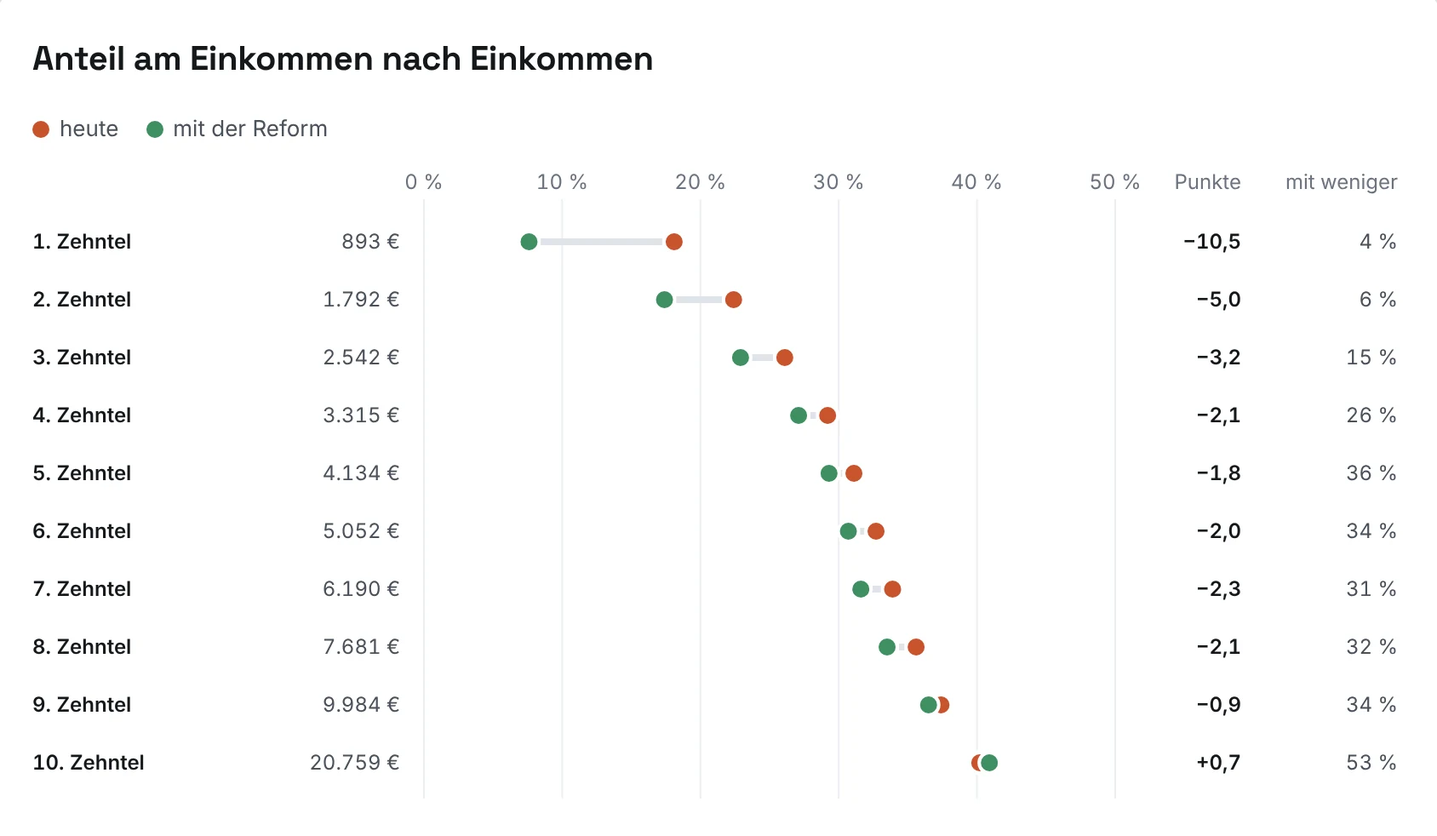
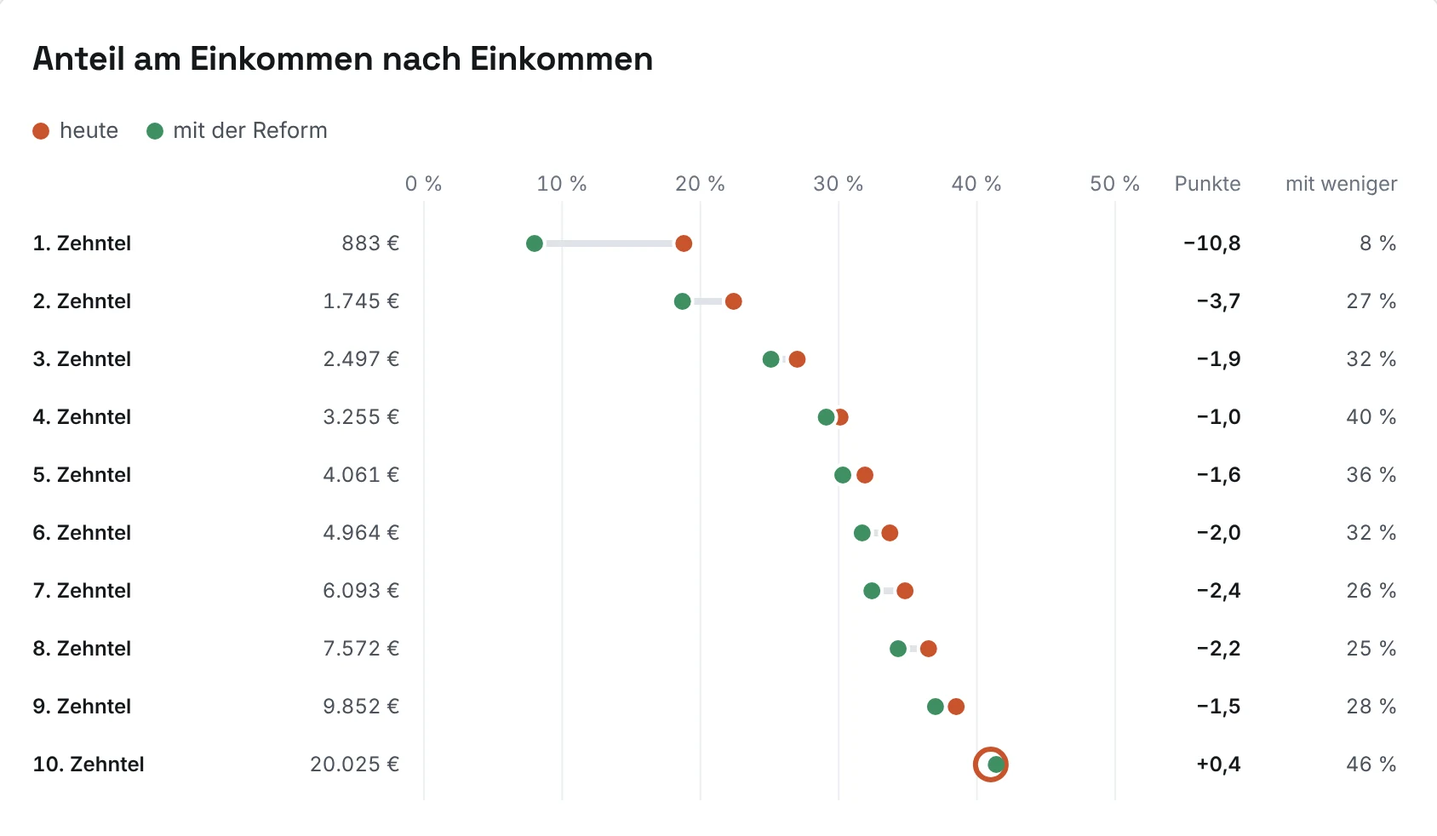
Steuerlast-Seite und Startseite: gezählt nach Erwachsenen über 18 (Stand Version 35)
Neue Grafiken aus der Mikrosimulation 0.3, Sätze aus steuerlast.json und uebergabe-v35.json.

Claude-Session: https://claude.ai/code/session_012Y93VcoN35D38RtTTtR6vF

diff --git a/steuerlast/index.html b/steuerlast/index.html
@@ -4,7 +4,7 @@
 <meta charset="utf-8">
 <meta name="viewport" content="width=device-width, initial-scale=1, viewport-fit=cover">
 <title>Wer die Reform bezahlt · Mut zur Zukunft</title>
-<meta name="description" content="Wer mit dem einheitlichen Steuersystem aus „Wir können uns die Zukunft leisten“ mehr Geld hat und wer weniger, nach Einkommen und Vermögen, gerechnet für 41 Mio. Haushalte.">
+<meta name="description" content="Wer mit dem einheitlichen Steuersystem aus „Wir können uns die Zukunft leisten“ mehr Geld hat und wer weniger, nach Einkommen und Vermögen, gerechnet für alle 68,2 Mio. Erwachsenen.">
 <link rel="icon" href="../favicon.svg" type="image/svg+xml">
 <link rel="stylesheet" href="../style.css">
 <style>
@@ -33,42 +33,42 @@
 <section class="sl-hero"><div class="wrap">
 <p class="eyebrow">Ein einheitliches Steuersystem</p>
 <h1>Wer die Reform bezahlt</h1>
-<p>Jedes Einkommen nach denselben Regeln: Wer hat mehr Geld als heute, wer weniger? Gerechnet für alle 41 Mio. Haushalte, nach Einkommen und nach Vermögen, im ersten Jahr der Reform und bei gleichem Einkauf wie heute.</p>
+<p>Jedes Einkommen nach denselben Regeln: Wer hat mehr Geld als heute, wer weniger? Gerechnet für alle 68,2 Mio. Erwachsenen in 41 Mio. Haushalten, nach Einkommen und Vermögen, im ersten Jahr der Reform und bei gleichem Einkauf wie heute.</p>
 </div></section>
 <div class="wrap sl">
 <div class="facts">
-<div><b>72,9 %</b><span>der Haushalte haben mehr Geld als heute, wenn sie so viel einkaufen wie heute.</span></div>
-<div><b>18,1 → 7,6 %</b><span>vom Einkommen zahlt das ärmste Zehntel an Steuern und Abgaben, heute und mit der Reform.</span></div>
-<div><b>37,8 → 39,9 %</b><span>aller Steuern und Abgaben der Haushalte trägt das reichste Zehntel, heute und mit der Reform.</span></div>
+<div><b>71 von 100</b><span>Erwachsenen haben mehr Geld als heute, wenn sie so viel einkaufen wie heute. Mit den Kindern gezählt 74 von 100 Menschen.</span></div>
+<div><b>18,8 → 8,0 %</b><span>vom Einkommen zahlt das ärmste Zehntel an Steuern und Abgaben, heute und mit der Reform.</span></div>
+<div><b>37,2 → 38,9 %</b><span>aller Steuern und Abgaben der Haushalte trägt das reichste Zehntel, heute und mit der Reform.</span></div>
 </div>
 <figure id="steuerlast-feld-einkommen-vermoegen">
 <a href="../bilder/steuerlast/steuerlast-feld-einkommen-vermoegen.webp" title="Wer hat mehr Geld, wer weniger: Grafik groß öffnen"><img src="../bilder/steuerlast/steuerlast-feld-einkommen-vermoegen.webp" width="1688" height="1362" loading="lazy" alt="Farbfeld nach Einkommen und Vermögen: Bis rund 310.000 € Vermögen haben fast alle Gruppen mehr Geld als heute, zwischen 310.000 und 490.000 € bleibt es fast gleich, darüber haben die Gruppen weniger."></a>
-<figcaption>Jedes Feld ist eine Gruppe von Haushalten. Nach rechts steigt das Einkommen, nach unten das Vermögen. Grün heißt: Die Haushalte haben im Mittel mehr Geld als heute, in Prozent ihres Einkommens. Rot heißt: weniger. Bis rund 310.000 € Vermögen ist fast alles grün, zwischen 310.000 und 490.000 € bleibt es fast gleich, weniger haben vor allem Haushalte mit mehr als 490.000 € Vermögen. Auch in grünen Feldern haben einzelne Haushalte weniger. Schraffierte Felder: zu wenige Haushalte für eine Aussage.</figcaption>
+<figcaption>Jedes Feld ist eine Gruppe von Erwachsenen, geordnet nach Einkommen und Vermögen ihres Haushalts. Nach rechts steigt das Einkommen, nach unten das Vermögen. Grün heißt: Die Erwachsenen der Gruppe haben im Mittel mehr Geld als heute, in Prozent ihres Einkommens. Rot heißt: weniger. Bis rund 310.000 € Vermögen ist fast alles grün, zwischen 310.000 und 490.000 € bleibt es fast gleich, weniger haben vor allem Erwachsene in Haushalten mit mehr als 490.000 € Vermögen. Auch in grünen Feldern haben einzelne weniger. Schraffierte Felder: zu wenige Fälle für eine Aussage.</figcaption>
 </figure>
 <figure id="steuerlast-nach-einkommen">
-<a href="../bilder/steuerlast/steuerlast-nach-einkommen.webp" title="Wie viel vom Einkommen an Steuern und Abgaben geht: Grafik groß öffnen"><img src="../bilder/steuerlast/steuerlast-nach-einkommen.webp" width="1688" height="982" loading="lazy" alt="Punktgrafik nach Einkommenszehnteln: Das unterste Zehntel zahlt 7,6 statt 18,1 % seines Einkommens, das oberste 40,9 statt 40,2 %."></a>
-<figcaption>Zehn gleich große Gruppen von je 4,1 Mio. Haushalten, geordnet nach dem Einkommen vor Steuern (Löhne, Gewinne, Renten, Kapitalerträge, Grundsicherung). Die Zahl hinter der Gruppe ist ihr mittleres Einkommen im Monat, die Punkte zeigen den Durchschnitt der Gruppe. Das unterste Zehntel zahlt 7,6 statt 18,1 % seines Einkommens, das oberste 40,9 statt 40,2 %. „Mit weniger“ zählt die Haushalte der Gruppe, die trotzdem weniger haben als heute (bei gleichem Einkauf, ohne Erbe).</figcaption>
+<a href="../bilder/steuerlast/steuerlast-nach-einkommen.webp" title="Wie viel vom Einkommen an Steuern und Abgaben geht: Grafik groß öffnen"><img src="../bilder/steuerlast/steuerlast-nach-einkommen.webp" width="1688" height="982" loading="lazy" alt="Punktgrafik nach Einkommenszehnteln: Das unterste Zehntel zahlt 8,0 statt 18,8 % seines Einkommens, das oberste 41,4 statt 41,0 %."></a>
+<figcaption>Zehn gleich große Gruppen von je 4,1 Mio. Haushalten, geordnet nach dem Einkommen vor Steuern (Löhne, Gewinne, Renten, Kapitalerträge, Grundsicherung). Die Zahl hinter der Gruppe ist ihr mittleres Einkommen im Monat, die Punkte zeigen den Durchschnitt der Gruppe. Das unterste Zehntel zahlt 8,0 statt 18,8 % seines Einkommens, das oberste 41,4 statt 41,0 %. „Mit weniger“ zählt die Erwachsenen der Gruppe, die trotzdem weniger haben als heute (bei gleichem Einkauf, ohne Erbe).</figcaption>
 </figure>
 <figure id="steuerlast-anteile">
-<a href="../bilder/steuerlast/steuerlast-anteile.webp" title="Wie viel vom Ganzen jede Gruppe trägt: Grafik groß öffnen"><img src="../bilder/steuerlast/steuerlast-anteile.webp" width="1688" height="722" loading="lazy" alt="Balken: Das oberste Zehntel trägt 39,9 statt 37,8 % aller Steuern und Abgaben der Haushalte, die untere Hälfte 14,4 statt 15,7 %."></a>
-<figcaption>Alle Haushalte zahlen mit der Reform 1.053 Mrd. € im Jahr, heute 1.091 Mrd. €. Das oberste Zehntel trägt mehr vom Ganzen als heute, 39,9 statt 37,8 %. Das oberste Prozent trägt im ersten Jahr 11,8 statt 12,3 %. Es spart viel und zahlt vor allem über das Erbe; wenn das Erbe voll wirkt, trägt es 12,3 %.</figcaption>
+<a href="../bilder/steuerlast/steuerlast-anteile.webp" title="Wie viel vom Ganzen jede Gruppe trägt: Grafik groß öffnen"><img src="../bilder/steuerlast/steuerlast-anteile.webp" width="1688" height="722" loading="lazy" alt="Balken: Das oberste Zehntel trägt 38,9 statt 37,2 % aller Steuern und Abgaben der Haushalte, die untere Hälfte 15,0 statt 16,0 %."></a>
+<figcaption>Alle Haushalte zahlen mit der Reform 1.054 Mrd. € im Jahr, heute 1.092 Mrd. €. Das oberste Zehntel trägt mehr vom Ganzen als heute, 38,9 statt 37,2 %. Das oberste Prozent trägt im ersten Jahr 11,3 statt 11,7 %. Es spart viel und zahlt vor allem über das Erbe; wenn das Erbe voll wirkt, trägt es 11,7 %.</figcaption>
 </figure>
 <figure id="steuerlast-nach-vermoegen">
-<a href="../bilder/steuerlast/steuerlast-nach-vermoegen.webp" title="Wie viel vom Einkommen nach Vermögen geht: Grafik groß öffnen"><img src="../bilder/steuerlast/steuerlast-nach-vermoegen.webp" width="1688" height="702" loading="lazy" alt="Punktgrafik nach Vermögen: Haushalte unter 100.000 € Vermögen zahlen 5,3 Punkte weniger von ihrem Einkommen, Haushalte zwischen 400.000 € und 1 Mio. € mehr."></a>
+<a href="../bilder/steuerlast/steuerlast-nach-vermoegen.webp" title="Wie viel vom Einkommen nach Vermögen geht: Grafik groß öffnen"><img src="../bilder/steuerlast/steuerlast-nach-vermoegen.webp" width="1688" height="812" loading="lazy" alt="Punktgrafik nach Vermögen: Haushalte unter 100.000 € Vermögen zahlen 6,0 Punkte weniger von ihrem Einkommen, Haushalte zwischen 400.000 € und 1 Mio. € mehr."></a>
 <figcaption>Gruppen nach Nettovermögen. Mehr zahlen vor allem Haushalte mit eigenem Haus, das noch nicht abbezahlt ist: Auf den Mietwert des unbezahlten Teils fällt Ausgabensteuer an, ebenso auf ausgegebene Zinsen und Mieten. Der beim Start bezahlte Teil des Hauses und Ausgaben aus versteuertem Ersparten bleiben frei.</figcaption>
 </figure>
 <figure id="wer-bezahlt-einkommen-vermoegen">
-<a href="../bilder/steuerlast/wer-bezahlt-einkommen-vermoegen.webp" title="Welche Einkommen und Vermögen die Reform bezahlen: Grafik groß öffnen"><img src="../bilder/steuerlast/wer-bezahlt-einkommen-vermoegen.webp" width="1688" height="1122" loading="lazy" alt="Balken nach Einkommens- und Vermögensart: Auf Löhne fallen 48,5 Mrd. € weniger, auf Gewinne eigener Firmen 14,1 Mrd. € mehr, auf vererbte Firmen 5,7 Mrd. € mehr."></a>
-<figcaption>Wie viel mehr oder weniger Steuern und Abgaben im Jahr auf jede Art von Einkommen und Vermögen fallen als heute, in Milliarden Euro. Auf Löhne fallen 48,5 Mrd. € weniger, auf Gewinne eigener Firmen 14,1 Mrd. € mehr. Beim Erbe zahlen Firmen 5,7 Mrd. € mehr, 13,0 Mrd. €, wenn der Staatsanteil am Erbe voll wirkt: Heute sind vererbte Firmen zu 85 % verschont, mit der Reform zählt alles voll. Zusammen tragen die Haushalte 38 Mrd. € weniger als heute, 23 Mrd. € davon ist der Ausgleich für heutige Rentner (bis 300 € im Monat) und 10 € im Monat je Erwachsenem. Steuern von Firmen, die nicht den Haushalten gehören, sind nicht enthalten.</figcaption>
+<a href="../bilder/steuerlast/wer-bezahlt-einkommen-vermoegen.webp" title="Welche Einkommen und Vermögen die Reform bezahlen: Grafik groß öffnen"><img src="../bilder/steuerlast/wer-bezahlt-einkommen-vermoegen.webp" width="1688" height="1122" loading="lazy" alt="Balken nach Einkommens- und Vermögensart: Auf Löhne fallen 56,6 Mrd. € weniger, auf Gewinne eigener Firmen 15,1 Mrd. € mehr, auf vererbte Firmen 5,6 Mrd. € mehr."></a>
+<figcaption>Wie viel mehr oder weniger Steuern und Abgaben im Jahr auf jede Art von Einkommen und Vermögen fallen als heute, in Milliarden Euro. Auf Löhne fallen 56,6 Mrd. € weniger, auf Gewinne eigener Firmen 15,1 Mrd. € mehr. Beim Erbe zahlen Firmen 5,6 Mrd. € mehr, 12,6 Mrd. €, wenn der Staatsanteil am Erbe voll wirkt: Heute sind vererbte Firmen zu 85 % verschont, mit der Reform zählt alles voll. Zusammen tragen die Haushalte 38 Mrd. € weniger als heute, 10 Mrd. € davon sind die Zuschläge für heutige Rentner (ihre Rente kauft 4 % mehr) und für Beamte und Pensionäre (mindestens 2 % mehr). Steuern von Firmen, die nicht den Haushalten gehören, sind nicht enthalten.</figcaption>
 </figure>
 <figure id="vermoegen-sparen">
-<a href="../bilder/steuerlast/vermoegen-sparen.webp" title="Wie Vermögen wächst: Grafik groß öffnen"><img src="../bilder/steuerlast/vermoegen-sparen.webp" width="1688" height="1057" loading="lazy" alt="Punktgrafik zum Sparen nach Vermögen: Haushalte unter 100.000 € Vermögen sparen mit der Reform 191 € im Monat, heute −16 €."></a>
-<figcaption>Um wie viel Prozent das Vermögen der Haushalte im Jahr durch Sparen wächst. Haushalte mit weniger als 100.000 € Vermögen sparen heute im Mittel −16 € im Monat, mit der Reform 191 €, also 4,9 % statt −0,4 % ihres Einkommens. Weil sie im Mittel nur 21.926 € besitzen, wirkt das als großer Sprung beim Wachstum des Vermögens. Gespart wird, was vom Einkommen nach Steuern und Abgaben bleibt, wenn der Haushalt so viel einkauft wie heute; was er mehr hat, legt er in dieser Rechnung ganz zurück. Nicht enthalten: Wertsteigerung von Häusern und Aktien, Erbschaften und Schenkungen.</figcaption>
+<a href="../bilder/steuerlast/vermoegen-sparen.webp" title="Wie Vermögen wächst: Grafik groß öffnen"><img src="../bilder/steuerlast/vermoegen-sparen.webp" width="1688" height="1162" loading="lazy" alt="Punktgrafik zum Sparen nach Vermögen: Haushalte unter 100.000 € Vermögen sparen mit der Reform 210 € im Monat, heute −14 €."></a>
+<figcaption>Um wie viel Prozent das Vermögen der Haushalte im Jahr durch Sparen wächst. Haushalte mit weniger als 100.000 € Vermögen sparen heute im Mittel −14 € im Monat, mit der Reform 210 €, also 5,5 % statt −0,4 % ihres Einkommens. Weil sie im Mittel nur 21.924 € besitzen, wirkt das als großer Sprung beim Wachstum des Vermögens. Gespart wird, was vom Einkommen nach Steuern und Abgaben bleibt, wenn der Haushalt so viel einkauft wie heute; was er mehr hat, legt er in dieser Rechnung ganz zurück. Nicht enthalten: Wertsteigerung von Häusern und Aktien, Erbschaften und Schenkungen.</figcaption>
 </figure>
 <div class="methode">
 <h2>Wie gerechnet wurde</h2>
-<p>Rund 49.000 künstliche Haushalte stehen für alle 41 Mio. Haushalte in Deutschland. Sie sind auf amtliche Zahlen geeicht: Löhne und Konsum aus der Volkswirtschaftlichen Gesamtrechnung 2025, Lohn- und Einkommensteuer aus den Steuereinnahmen 2025, Vermögen aus der Vermögensbefragung der Bundesbank 2023 mit einer Zuschätzung der Reichsten, Sparen aus der Einkommens- und Verbrauchsstichprobe.</p>
-<p>Heute: Lohn- und Einkommensteuer mit Soli, Sozialbeiträge, Abgeltungsteuer, Körperschaftsteuer auf eigene Firmen, Mehrwertsteuer, Erbschaft- und Schenkungsteuer. Mit der Reform: Ausgabensteuer über dem Freibetrag, höhere Mehrwertsteuer auf denselben Einkauf, die verbleibenden Beiträge und der Staatsanteil am Erbe, abzüglich der Auszahlungen an die Haushalte. Das Erbe zählt als erwartete Steuer im Jahr. Wie jede Schätzung hängt das Ergebnis an Annahmen: Im gezeigten Fall haben 11,1 Mio. Haushalte weniger als heute, mit anderen vertretbaren Eichungen sind es 9,7 bis 15,1 Mio. Jeden einzelnen Haushalt rechnet der <a href="../steuerrechner/">Steuerrechner</a> nach, die ganze Rechnung steht im <a href="../buch/">Buch</a>.</p>
+<p>Rund 46.000 künstliche Haushalte stehen für alle 41 Mio. Haushalte in Deutschland, mit 68,2 Mio. Erwachsenen und 82,3 Mio. Menschen. Sie sind auf amtliche Zahlen geeicht: Löhne und Konsum aus der Volkswirtschaftlichen Gesamtrechnung 2025, Lohn- und Einkommensteuer aus den Steuereinnahmen 2025, Vermögen aus der Vermögensbefragung der Bundesbank 2023 mit einer Zuschätzung der Reichsten, Sparen aus der Einkommens- und Verbrauchsstichprobe.</p>
+<p>Heute: Lohn- und Einkommensteuer mit Soli, Sozialbeiträge, Abgeltungsteuer, Körperschaftsteuer auf eigene Firmen, Mehrwertsteuer, Erbschaft- und Schenkungsteuer. Mit der Reform: Ausgabensteuer über dem Freibetrag, höhere Mehrwertsteuer auf denselben Einkauf, die verbleibenden Beiträge und der Staatsanteil am Erbe, abzüglich der Auszahlungen an die Haushalte. Das Erbe zählt als erwartete Steuer im Jahr. Wie jede Schätzung hängt das Ergebnis an Annahmen: Gezählt werden Erwachsene über 18: Jeder zählt mit dem Plus seines Haushalts geteilt durch die Erwachsenen darin, erwachsene Kinder bei den Eltern zählen für sich, Kinder unter 18 mit ihrem Haushalt. Im gezeigten Fall haben 19,4 Mio. Erwachsene weniger als heute, im Mittel 334 € im Monat; mit anderen vertretbaren Eichungen sind es 17,5 bis 27,4 Mio. Die Grafiken ordnen nach Einkommen und Vermögen des Haushalts und zählen die erwachsenen Kinder bei den Eltern nicht mit. Jeden einzelnen Haushalt rechnet der <a href="../steuerrechner/">Steuerrechner</a> nach, die ganze Rechnung steht im <a href="../buch/">Buch</a>.</p>
 </div>
 </div>
 </main>

diff --git a/index.html b/index.html
@@ -38,10 +38,10 @@
 <p class="quote">„Jede Einkommensart wird nach den gleichen Regeln und mit den gleichen Freibeträgen behandelt. Denn die Würde des Menschen ist gleich, ob man arm oder reich ist.“</p>
 <div class="grid3">
 <div class="card"><span class="big">frei</span><p>Das Existenzminimum bleibt steuerfrei, für jeden Erwachsenen und jedes Kind. Vom Lohn gehen keine Beiträge mehr ab, ohne Grenze, und der Arbeitgeber zahlt seine Anteile als Lohn aus. Lebensmittel, Trinkwasser, Bus und Bahn ohne Mehrwertsteuer.</p></div>
-<div class="card"><span class="big">7 von 10</span><p>Haushalten haben zum Start mehr Geld als heute, wenn sie so viel einkaufen wie heute, genau 73 von 100. Eine Familie mit zwei Kindern, 5.000 € brutto und eigenem Haus hat 1.039 € im Monat mehr.</p></div>
+<div class="card"><span class="big">7 von 10</span><p>Erwachsenen haben zum Start mehr Geld als heute, wenn sie so viel einkaufen wie heute, genau 71 von 100. Mit den Kindern gezählt sind es 74 von 100 Menschen. Eine Familie mit zwei Kindern, 5.000 € brutto und eigenem Haus hat 1.039 € im Monat mehr.</p></div>
 <div class="card"><span class="big">trägt sich</span><p>Wer im bezahlten eigenen Haus wohnt, schon Rente bezieht oder aus versteuertem Ersparten lebt, zahlt nicht doppelt. Im ersten Jahr fehlen dem Staat 8,5 Mrd. €, im zweiten noch 5,3 Mrd. €. Das passt in den Spielraum der Schuldenbremse. Ab 2030 bleibt jedes Jahr ein Überschuss, der Kredit von höchstens 14 Mrd. € ist 2032 getilgt. Mit dem Zukunftsplan ist der Staat 2064 schuldenfrei, ohne höhere Mehrwertsteuer, im zuversichtlichen Fall schon 2046. Jede Zahl ist im Buch erklärt und hier im Rechner nachprüfbar.</p></div>
 </div>
-<figure class="steuerlast"><a href="steuerlast/"><img src="bilder/steuerlast/steuerlast-feld-einkommen-vermoegen.webp" width="1688" height="1362" loading="lazy" alt="Farbfeld nach Einkommen und Vermögen: Bis rund 310.000 € Vermögen haben fast alle Gruppen mehr Geld als heute, zwischen 310.000 und 490.000 € bleibt es fast gleich, darüber haben die Gruppen weniger."></a><figcaption>Wer mehr Geld hat als heute und wer weniger, für alle 41 Mio. Haushalte nach Einkommen (nach rechts) und Vermögen (nach unten). Bis rund 310.000 € Vermögen ist fast alles grün, weniger haben vor allem Haushalte mit mehr als 490.000 € Vermögen. <a href="steuerlast/">Alle Grafiken: Wer die Reform bezahlt</a></figcaption></figure>
+<figure class="steuerlast"><a href="steuerlast/"><img src="bilder/steuerlast/steuerlast-feld-einkommen-vermoegen.webp" width="1688" height="1362" loading="lazy" alt="Farbfeld nach Einkommen und Vermögen: Bis rund 310.000 € Vermögen haben fast alle Gruppen mehr Geld als heute, zwischen 310.000 und 490.000 € bleibt es fast gleich, darüber haben die Gruppen weniger."></a><figcaption>Wer mehr Geld hat als heute und wer weniger, für alle Erwachsenen nach Einkommen (nach rechts) und Vermögen ihres Haushalts (nach unten). Bis rund 310.000 € Vermögen ist fast alles grün, weniger haben vor allem Erwachsene in Haushalten mit mehr als 490.000 € Vermögen. <a href="steuerlast/">Alle Grafiken: Wer die Reform bezahlt</a></figcaption></figure>
 <div class="cta"><div><h3>Was bedeutet das für deinen Haushalt?</h3><p style="margin:0;color:var(--muted)">Der Steuerrechner vergleicht heute und Vorschlag, zeigt die Staatsfinanzen bis 2070 und die CO₂-Abgabe. Er läuft im Browser und speichert nichts.</p></div><a class="btn" href="steuerrechner/">Jetzt nachrechnen</a></div>
 <div class="cta"><div><h3>E-Auto oder Verbrenner?</h3><p style="margin:0;color:var(--muted)">Was ein Elektroauto über sein ganzes Leben im Vergleich zum Verbrenner kostet, privat oder als Dienstwagen. Mit den Regeln für Kfz-Steuer und Dienstwagen, Stand 2026.</p></div><a class="btn ghost" href="eauto-rechner/">E-Auto nachrechnen</a></div>
 <div class="cta"><div><h3>Wärmepumpe, Gas oder Öl?</h3><p style="margin:0;color:var(--muted)">Was eine neue Heizung über 20 Jahre kostet: mit Förderung, CO₂-Preis und der neuen Pflicht zur Bio-Beimischung, Stand 2026. Dazu Dämmen und neue Fenster: niedrigere Vorlauftemperatur, bessere Wärmepumpe, weniger CO₂, auch mit dynamischem Tarif.</p></div><a class="btn ghost" href="heizungsrechner/">Heizung nachrechnen</a></div>

diff --git a/werkzeug/steuerlast-seite.py b/werkzeug/steuerlast-seite.py
@@ -2,9 +2,9 @@
 import re
 R = '/home/user/mut-zur-zukunft/'
 import json
-M = '/mnt/project-files/rechenmodell-mikrosim/'
+M = '/mnt/project-files/rechenmodell-mikrosim/v0.3/'
 J = json.load(open(M + 'steuerlast.json'))
-UB = json.load(open(M + 'uebergabe-buch.json'))
+UB = json.load(open(M + 'uebergabe-v35.json'))
 def k(x, n=1):
     t = f"{abs(x):,.{n}f}".replace(",", "X").replace(".", ",").replace("X", ".")
     return ("−" if x < 0 else "") + t
@@ -13,10 +13,12 @@ Z = J['zehntel']; ein = {a['art'] if 'art' in a else a['name']: a for a in J['ar
 def diff(name, lang=False, liste='einkommen'):
     a = next(a for a in J['arten'][liste] if a['name'] == name)
     return a['reform_lang_mrd' if lang else 'reform_mrd'] - a['heute_mrd']
-sp = re.search(r'Version 32 ([0-9,]+) bis ([0-9,]+) Mio\. \(Standard ([0-9,]+)\)', UB['spanne'])
-assert sp.group(3) == f"{J['weniger_mio']:.1f}".replace('.', ','), ('Spanne passt nicht zu steuerlast.json', sp.group(3), J['weniger_mio'])
+E, MS = J['erwachsene'], J['menschen']
+sp = next(x for x in UB['spanne_erwachsene'] if x['fall'].startswith('Rechenkern V35: '))
+assert abs(sp['standard_weniger_mio'] - E['mit_weniger_mio']) < 0.05, ('Spanne passt nicht zu steuerlast.json', sp, E)
 N = dict(
- mehr=k(J['mehr_prozent']), weniger=k(J['weniger_mio']), sp1=sp.group(1), sp2=sp.group(2),
+ emehr=str(E['von_100']['mehr']), eweniger=str(E['weniger_zusammen']), mmehr=str(MS['von_100']['mehr']), erw=k(E['erwachsene_mio'], 1), mensch=k(MS['menschen_mio'], 1),
+ weniger=k(E['mit_weniger_mio']), wmittel=k(E['weniger_im_mittel_monat'], 0), sp1=k(sp['von_weniger_mio']), sp2=k(sp['bis_weniger_mio']),
  z1h=k(Z[0]['quote_heute']), z1r=k(Z[0]['quote_reform']), z10h=k(Z[9]['quote_heute']), z10r=k(Z[9]['quote_reform']),
  uh=k(sum(z['anteil_heute'] for z in Z[:5])), ur=k(sum(z['anteil_reform'] for z in Z[:5])),
  oh=k(Z[9]['anteil_heute']), orr=k(Z[9]['anteil_reform']),
@@ -40,10 +42,10 @@ footer = re.search(r'<footer>.*?</footer>', u, re.S).group(0).replace('href="', 
 G = [
  ("steuerlast-feld-einkommen-vermoegen", 1688, 1362, "Wer hat mehr Geld, wer weniger",
   "Farbfeld nach Einkommen und Vermögen: Bis rund 310.000 € Vermögen haben fast alle Gruppen mehr Geld als heute, zwischen 310.000 und 490.000 € bleibt es fast gleich, darüber haben die Gruppen weniger.",
-  "Jedes Feld ist eine Gruppe von Haushalten. Nach rechts steigt das Einkommen, nach unten das Vermögen. Grün heißt: Die Haushalte haben im Mittel mehr Geld als heute, in Prozent ihres Einkommens. Rot heißt: weniger. Bis rund 310.000 € Vermögen ist fast alles grün, zwischen 310.000 und 490.000 € bleibt es fast gleich, weniger haben vor allem Haushalte mit mehr als 490.000 € Vermögen. Auch in grünen Feldern haben einzelne Haushalte weniger. Schraffierte Felder: zu wenige Haushalte für eine Aussage."),
+  "Jedes Feld ist eine Gruppe von Erwachsenen, geordnet nach Einkommen und Vermögen ihres Haushalts. Nach rechts steigt das Einkommen, nach unten das Vermögen. Grün heißt: Die Erwachsenen der Gruppe haben im Mittel mehr Geld als heute, in Prozent ihres Einkommens. Rot heißt: weniger. Bis rund 310.000 € Vermögen ist fast alles grün, zwischen 310.000 und 490.000 € bleibt es fast gleich, weniger haben vor allem Erwachsene in Haushalten mit mehr als 490.000 € Vermögen. Auch in grünen Feldern haben einzelne weniger. Schraffierte Felder: zu wenige Fälle für eine Aussage."),
  ("steuerlast-nach-einkommen", 1688, 982, "Wie viel vom Einkommen an Steuern und Abgaben geht",
   "Punktgrafik nach Einkommenszehnteln: Das unterste Zehntel zahlt «z1r» statt «z1h» % seines Einkommens, das oberste «z10r» statt «z10h» %.",
-  "Zehn gleich große Gruppen von je 4,1 Mio. Haushalten, geordnet nach dem Einkommen vor Steuern (Löhne, Gewinne, Renten, Kapitalerträge, Grundsicherung). Die Zahl hinter der Gruppe ist ihr mittleres Einkommen im Monat, die Punkte zeigen den Durchschnitt der Gruppe. Das unterste Zehntel zahlt «z1r» statt «z1h» % seines Einkommens, das oberste «z10r» statt «z10h» %. „Mit weniger“ zählt die Haushalte der Gruppe, die trotzdem weniger haben als heute (bei gleichem Einkauf, ohne Erbe)."),
+  "Zehn gleich große Gruppen von je 4,1 Mio. Haushalten, geordnet nach dem Einkommen vor Steuern (Löhne, Gewinne, Renten, Kapitalerträge, Grundsicherung). Die Zahl hinter der Gruppe ist ihr mittleres Einkommen im Monat, die Punkte zeigen den Durchschnitt der Gruppe. Das unterste Zehntel zahlt «z1r» statt «z1h» % seines Einkommens, das oberste «z10r» statt «z10h» %. „Mit weniger“ zählt die Erwachsenen der Gruppe, die trotzdem weniger haben als heute (bei gleichem Einkauf, ohne Erbe)."),
  ("steuerlast-anteile", 1688, 722, "Wie viel vom Ganzen jede Gruppe trägt",
   "Balken: Das oberste Zehntel trägt «orr» statt «oh» % aller Steuern und Abgaben der Haushalte, die untere Hälfte «ur» statt «uh» %.",
   "Alle Haushalte zahlen mit der Reform «gr» Mrd. € im Jahr, heute «gh» Mrd. €. Das oberste Zehntel trägt mehr vom Ganzen als heute, «orr» statt «oh» %. Das oberste Prozent trägt im ersten Jahr «p1r» statt «p1h» %. Es spart viel und zahlt vor allem über das Erbe; wenn das Erbe voll wirkt, trägt es «p1l» %."),
@@ -52,11 +54,13 @@ G = [
   "Gruppen nach Nettovermögen. Mehr zahlen vor allem Haushalte mit eigenem Haus, das noch nicht abbezahlt ist: Auf den Mietwert des unbezahlten Teils fällt Ausgabensteuer an, ebenso auf ausgegebene Zinsen und Mieten. Der beim Start bezahlte Teil des Hauses und Ausgaben aus versteuertem Ersparten bleiben frei."),
  ("wer-bezahlt-einkommen-vermoegen", 1688, 1122, "Welche Einkommen und Vermögen die Reform bezahlen",
   "Balken nach Einkommens- und Vermögensart: Auf Löhne fallen «lohn» Mrd. € weniger, auf Gewinne eigener Firmen «gew» Mrd. € mehr, auf vererbte Firmen «firm» Mrd. € mehr.",
-  "Wie viel mehr oder weniger Steuern und Abgaben im Jahr auf jede Art von Einkommen und Vermögen fallen als heute, in Milliarden Euro. Auf Löhne fallen «lohn» Mrd. € weniger, auf Gewinne eigener Firmen «gew» Mrd. € mehr. Beim Erbe zahlen Firmen «firm» Mrd. € mehr, «firml» Mrd. €, wenn der Staatsanteil am Erbe voll wirkt: Heute sind vererbte Firmen zu 85 % verschont, mit der Reform zählt alles voll. Zusammen tragen die Haushalte «summe» Mrd. € weniger als heute, «ausgl» Mrd. € davon ist der Ausgleich für heutige Rentner (bis 300 € im Monat) und 10 € im Monat je Erwachsenem. Steuern von Firmen, die nicht den Haushalten gehören, sind nicht enthalten."),
+  "Wie viel mehr oder weniger Steuern und Abgaben im Jahr auf jede Art von Einkommen und Vermögen fallen als heute, in Milliarden Euro. Auf Löhne fallen «lohn» Mrd. € weniger, auf Gewinne eigener Firmen «gew» Mrd. € mehr. Beim Erbe zahlen Firmen «firm» Mrd. € mehr, «firml» Mrd. €, wenn der Staatsanteil am Erbe voll wirkt: Heute sind vererbte Firmen zu 85 % verschont, mit der Reform zählt alles voll. Zusammen tragen die Haushalte «summe» Mrd. € weniger als heute, «ausgl» Mrd. € davon sind die Zuschläge für heutige Rentner (ihre Rente kauft 4 % mehr) und für Beamte und Pensionäre (mindestens 2 % mehr). Steuern von Firmen, die nicht den Haushalten gehören, sind nicht enthalten."),
  ("vermoegen-sparen", 1688, 1057, "Wie Vermögen wächst",
   "Punktgrafik zum Sparen nach Vermögen: Haushalte unter 100.000 € Vermögen sparen mit der Reform «sr» € im Monat, heute «sh» €.",
   "Um wie viel Prozent das Vermögen der Haushalte im Jahr durch Sparen wächst. Haushalte mit weniger als 100.000 € Vermögen sparen heute im Mittel «sh» € im Monat, mit der Reform «sr» €, also «sq» % statt «qh» % ihres Einkommens. Weil sie im Mittel nur «vm» € besitzen, wirkt das als großer Sprung beim Wachstum des Vermögens. Gespart wird, was vom Einkommen nach Steuern und Abgaben bleibt, wenn der Haushalt so viel einkauft wie heute; was er mehr hat, legt er in dieser Rechnung ganz zurück. Nicht enthalten: Wertsteigerung von Häusern und Aktien, Erbschaften und Schenkungen."),
 ]
+from PIL import Image
+G = [(f, *Image.open(R + 'bilder/steuerlast/' + f + '.webp').size, t, alt, cap) for f, w, h, t, alt, cap in G]
 figs = "\n".join(f'''<figure id="{f}">
 <a href="../bilder/steuerlast/{f}.webp" title="{t}: Grafik groß öffnen"><img src="../bilder/steuerlast/{f}.webp" width="{w}" height="{h}" loading="lazy" alt="{alt}"></a>
 <figcaption>{cap}</figcaption>
@@ -68,7 +72,7 @@ html = f'''<!doctype html>
 <meta charset="utf-8">
 <meta name="viewport" content="width=device-width, initial-scale=1, viewport-fit=cover">
 <title>Wer die Reform bezahlt · Mut zur Zukunft</title>
-<meta name="description" content="Wer mit dem einheitlichen Steuersystem aus „Wir können uns die Zukunft leisten“ mehr Geld hat und wer weniger, nach Einkommen und Vermögen, gerechnet für 41 Mio. Haushalte.">
+<meta name="description" content="Wer mit dem einheitlichen Steuersystem aus „Wir können uns die Zukunft leisten“ mehr Geld hat und wer weniger, nach Einkommen und Vermögen, gerechnet für alle «erw» Mio. Erwachsenen.">
 <link rel="icon" href="../favicon.svg" type="image/svg+xml">
 <link rel="stylesheet" href="../style.css">
 <style>
@@ -97,19 +101,19 @@ html = f'''<!doctype html>
 <section class="sl-hero"><div class="wrap">
 <p class="eyebrow">Ein einheitliches Steuersystem</p>
 <h1>Wer die Reform bezahlt</h1>
-<p>Jedes Einkommen nach denselben Regeln: Wer hat mehr Geld als heute, wer weniger? Gerechnet für alle 41 Mio. Haushalte, nach Einkommen und nach Vermögen, im ersten Jahr der Reform und bei gleichem Einkauf wie heute.</p>
+<p>Jedes Einkommen nach denselben Regeln: Wer hat mehr Geld als heute, wer weniger? Gerechnet für alle «erw» Mio. Erwachsenen in 41 Mio. Haushalten, nach Einkommen und Vermögen, im ersten Jahr der Reform und bei gleichem Einkauf wie heute.</p>
 </div></section>
 <div class="wrap sl">
 <div class="facts">
-<div><b>«mehr» %</b><span>der Haushalte haben mehr Geld als heute, wenn sie so viel einkaufen wie heute.</span></div>
+<div><b>«emehr» von 100</b><span>Erwachsenen haben mehr Geld als heute, wenn sie so viel einkaufen wie heute. Mit den Kindern gezählt «mmehr» von 100 Menschen.</span></div>
 <div><b>«z1h» → «z1r» %</b><span>vom Einkommen zahlt das ärmste Zehntel an Steuern und Abgaben, heute und mit der Reform.</span></div>
 <div><b>«oh» → «orr» %</b><span>aller Steuern und Abgaben der Haushalte trägt das reichste Zehntel, heute und mit der Reform.</span></div>
 </div>
 {figs}
 <div class="methode">
 <h2>Wie gerechnet wurde</h2>
-<p>Rund 49.000 künstliche Haushalte stehen für alle 41 Mio. Haushalte in Deutschland. Sie sind auf amtliche Zahlen geeicht: Löhne und Konsum aus der Volkswirtschaftlichen Gesamtrechnung 2025, Lohn- und Einkommensteuer aus den Steuereinnahmen 2025, Vermögen aus der Vermögensbefragung der Bundesbank 2023 mit einer Zuschätzung der Reichsten, Sparen aus der Einkommens- und Verbrauchsstichprobe.</p>
-<p>Heute: Lohn- und Einkommensteuer mit Soli, Sozialbeiträge, Abgeltungsteuer, Körperschaftsteuer auf eigene Firmen, Mehrwertsteuer, Erbschaft- und Schenkungsteuer. Mit der Reform: Ausgabensteuer über dem Freibetrag, höhere Mehrwertsteuer auf denselben Einkauf, die verbleibenden Beiträge und der Staatsanteil am Erbe, abzüglich der Auszahlungen an die Haushalte. Das Erbe zählt als erwartete Steuer im Jahr. Wie jede Schätzung hängt das Ergebnis an Annahmen: Im gezeigten Fall haben «weniger» Mio. Haushalte weniger als heute, mit anderen vertretbaren Eichungen sind es «sp1» bis «sp2» Mio. Jeden einzelnen Haushalt rechnet der <a href="../steuerrechner/">Steuerrechner</a> nach, die ganze Rechnung steht im <a href="../buch/">Buch</a>.</p>
+<p>Rund 46.000 künstliche Haushalte stehen für alle 41 Mio. Haushalte in Deutschland, mit «erw» Mio. Erwachsenen und «mensch» Mio. Menschen. Sie sind auf amtliche Zahlen geeicht: Löhne und Konsum aus der Volkswirtschaftlichen Gesamtrechnung 2025, Lohn- und Einkommensteuer aus den Steuereinnahmen 2025, Vermögen aus der Vermögensbefragung der Bundesbank 2023 mit einer Zuschätzung der Reichsten, Sparen aus der Einkommens- und Verbrauchsstichprobe.</p>
+<p>Heute: Lohn- und Einkommensteuer mit Soli, Sozialbeiträge, Abgeltungsteuer, Körperschaftsteuer auf eigene Firmen, Mehrwertsteuer, Erbschaft- und Schenkungsteuer. Mit der Reform: Ausgabensteuer über dem Freibetrag, höhere Mehrwertsteuer auf denselben Einkauf, die verbleibenden Beiträge und der Staatsanteil am Erbe, abzüglich der Auszahlungen an die Haushalte. Das Erbe zählt als erwartete Steuer im Jahr. Wie jede Schätzung hängt das Ergebnis an Annahmen: Gezählt werden Erwachsene über 18: Jeder zählt mit dem Plus seines Haushalts geteilt durch die Erwachsenen darin, erwachsene Kinder bei den Eltern zählen für sich, Kinder unter 18 mit ihrem Haushalt. Im gezeigten Fall haben «weniger» Mio. Erwachsene weniger als heute, im Mittel «wmittel» € im Monat; mit anderen vertretbaren Eichungen sind es «sp1» bis «sp2» Mio. Die Grafiken ordnen nach Einkommen und Vermögen des Haushalts und zählen die erwachsenen Kinder bei den Eltern nicht mit. Jeden einzelnen Haushalt rechnet der <a href="../steuerrechner/">Steuerrechner</a> nach, die ganze Rechnung steht im <a href="../buch/">Buch</a>.</p>
 </div>
 </div>
 </main>

diff --git a/werkzeug/steuerlast-schnitt.py b/werkzeug/steuerlast-schnitt.py
@@ -1,5 +1,5 @@
 from PIL import Image, ImageDraw
-D='/mnt/project-files/rechenmodell-mikrosim/steuerlast/'
+D='/mnt/project-files/rechenmodell-mikrosim/v0.3/steuerlast/'
 O='/home/user/mut-zur-zukunft/bilder/steuerlast/'
 plan={
  'steuerlast-feld-einkommen-vermoegen':[(8,100),(200,1440)],
